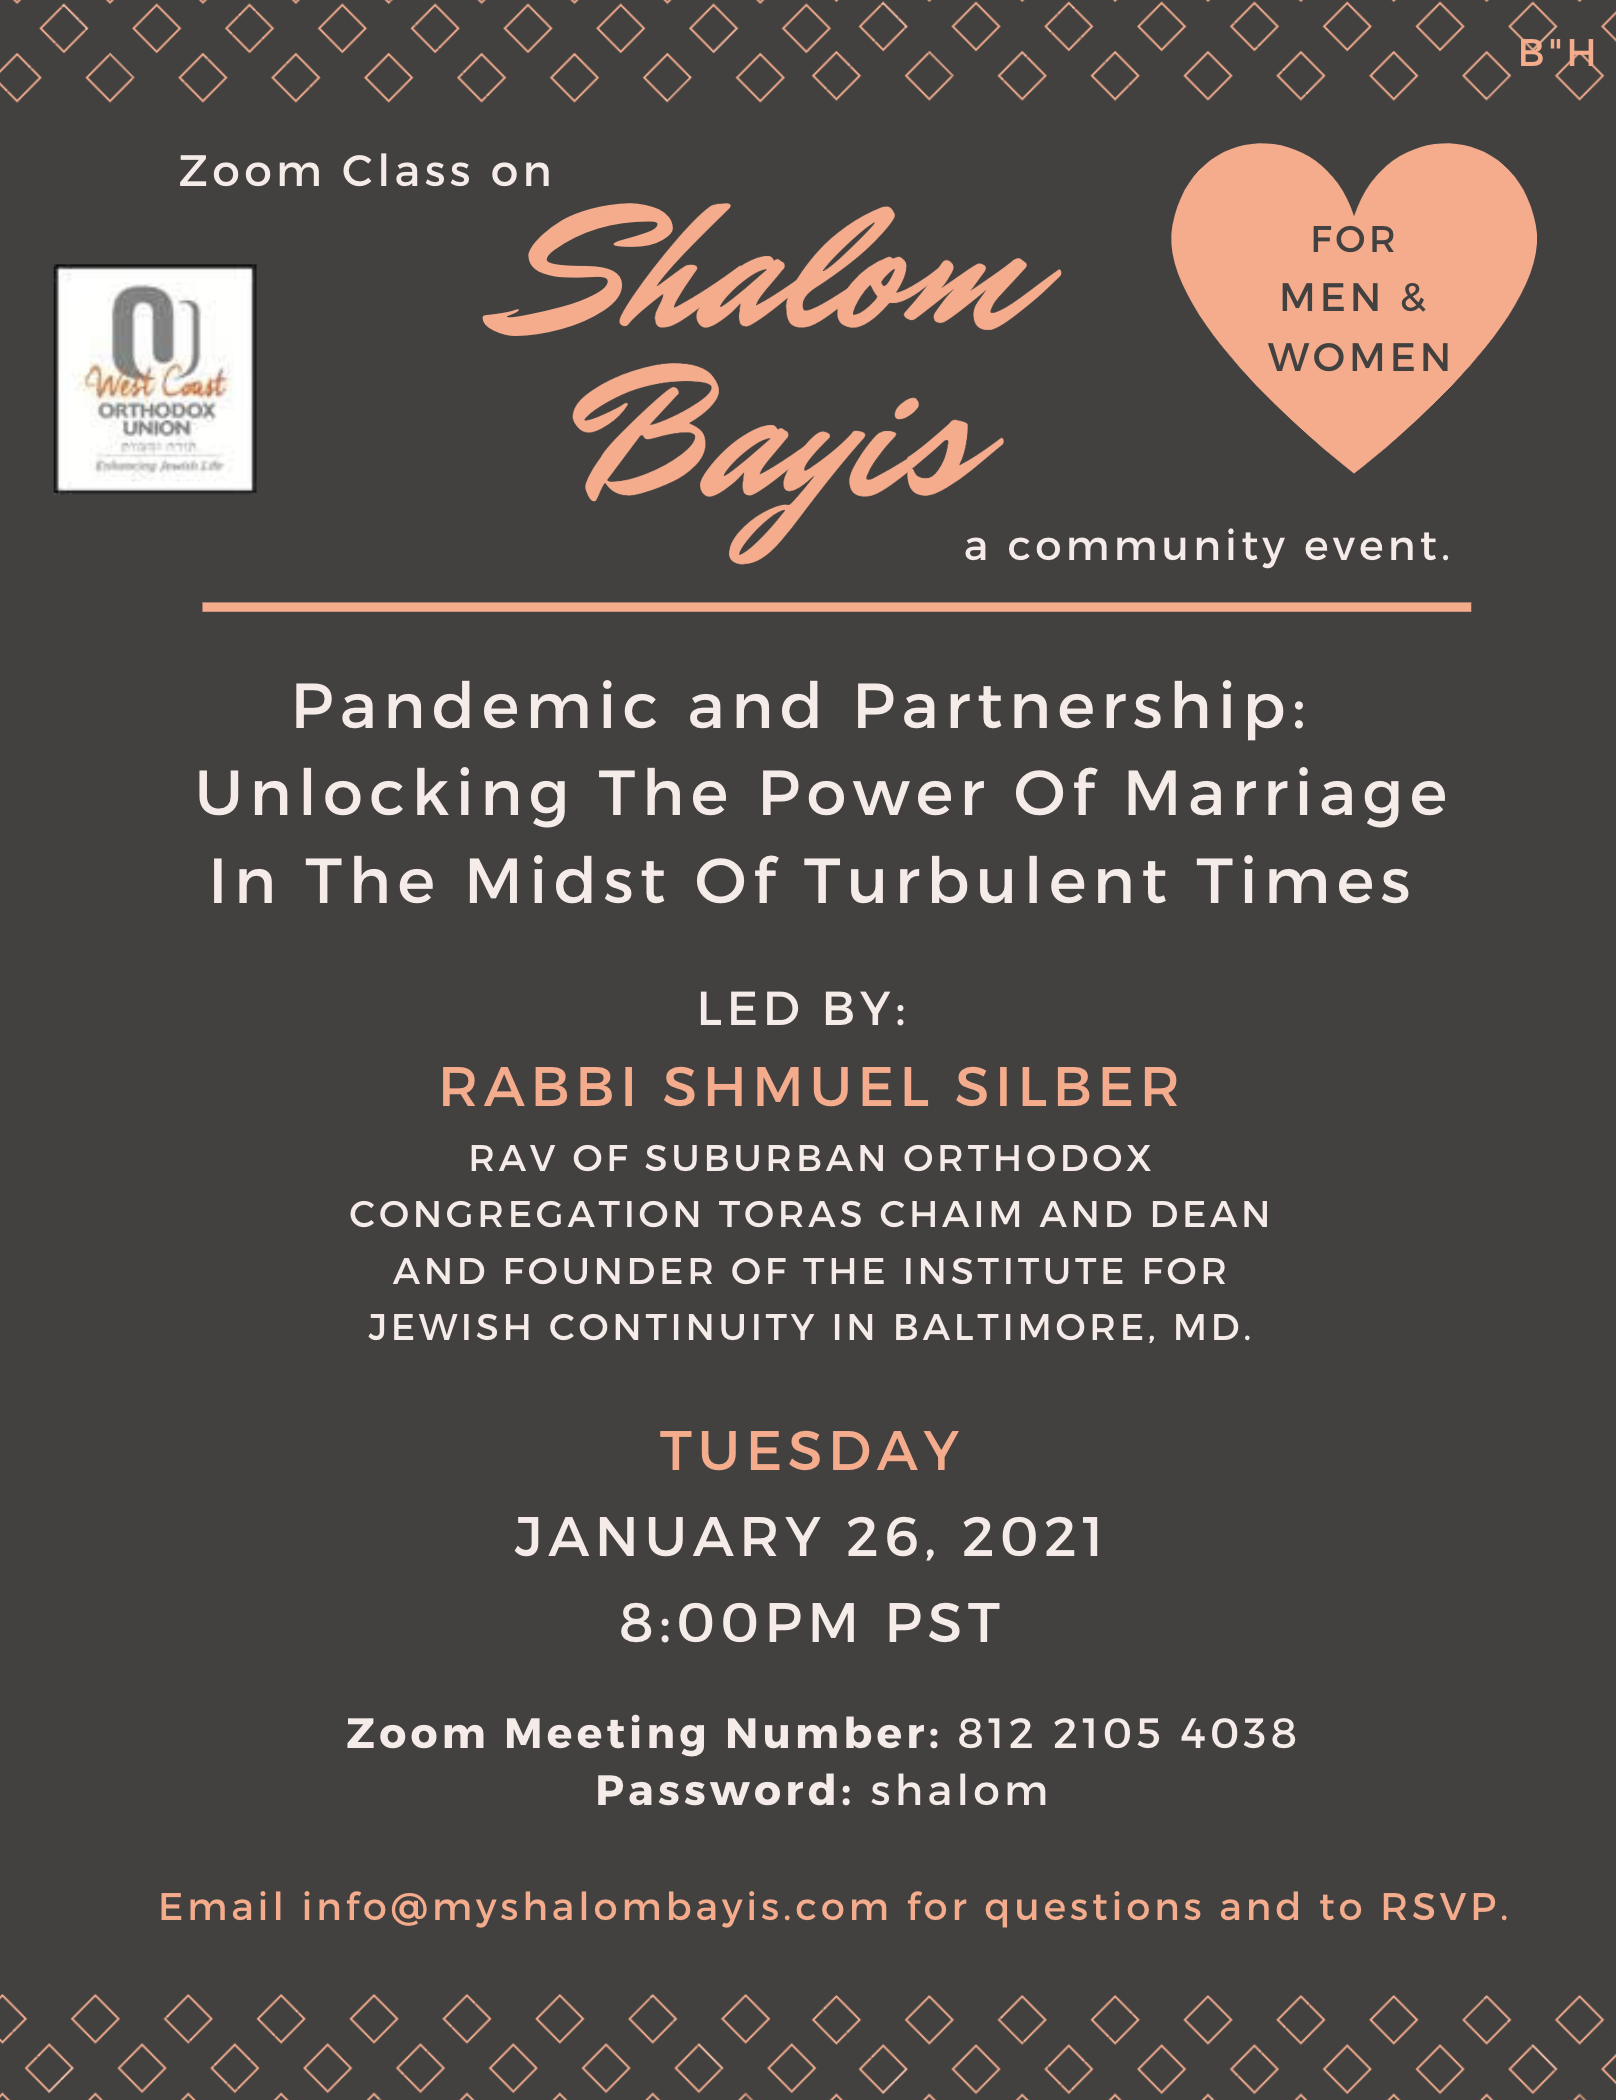
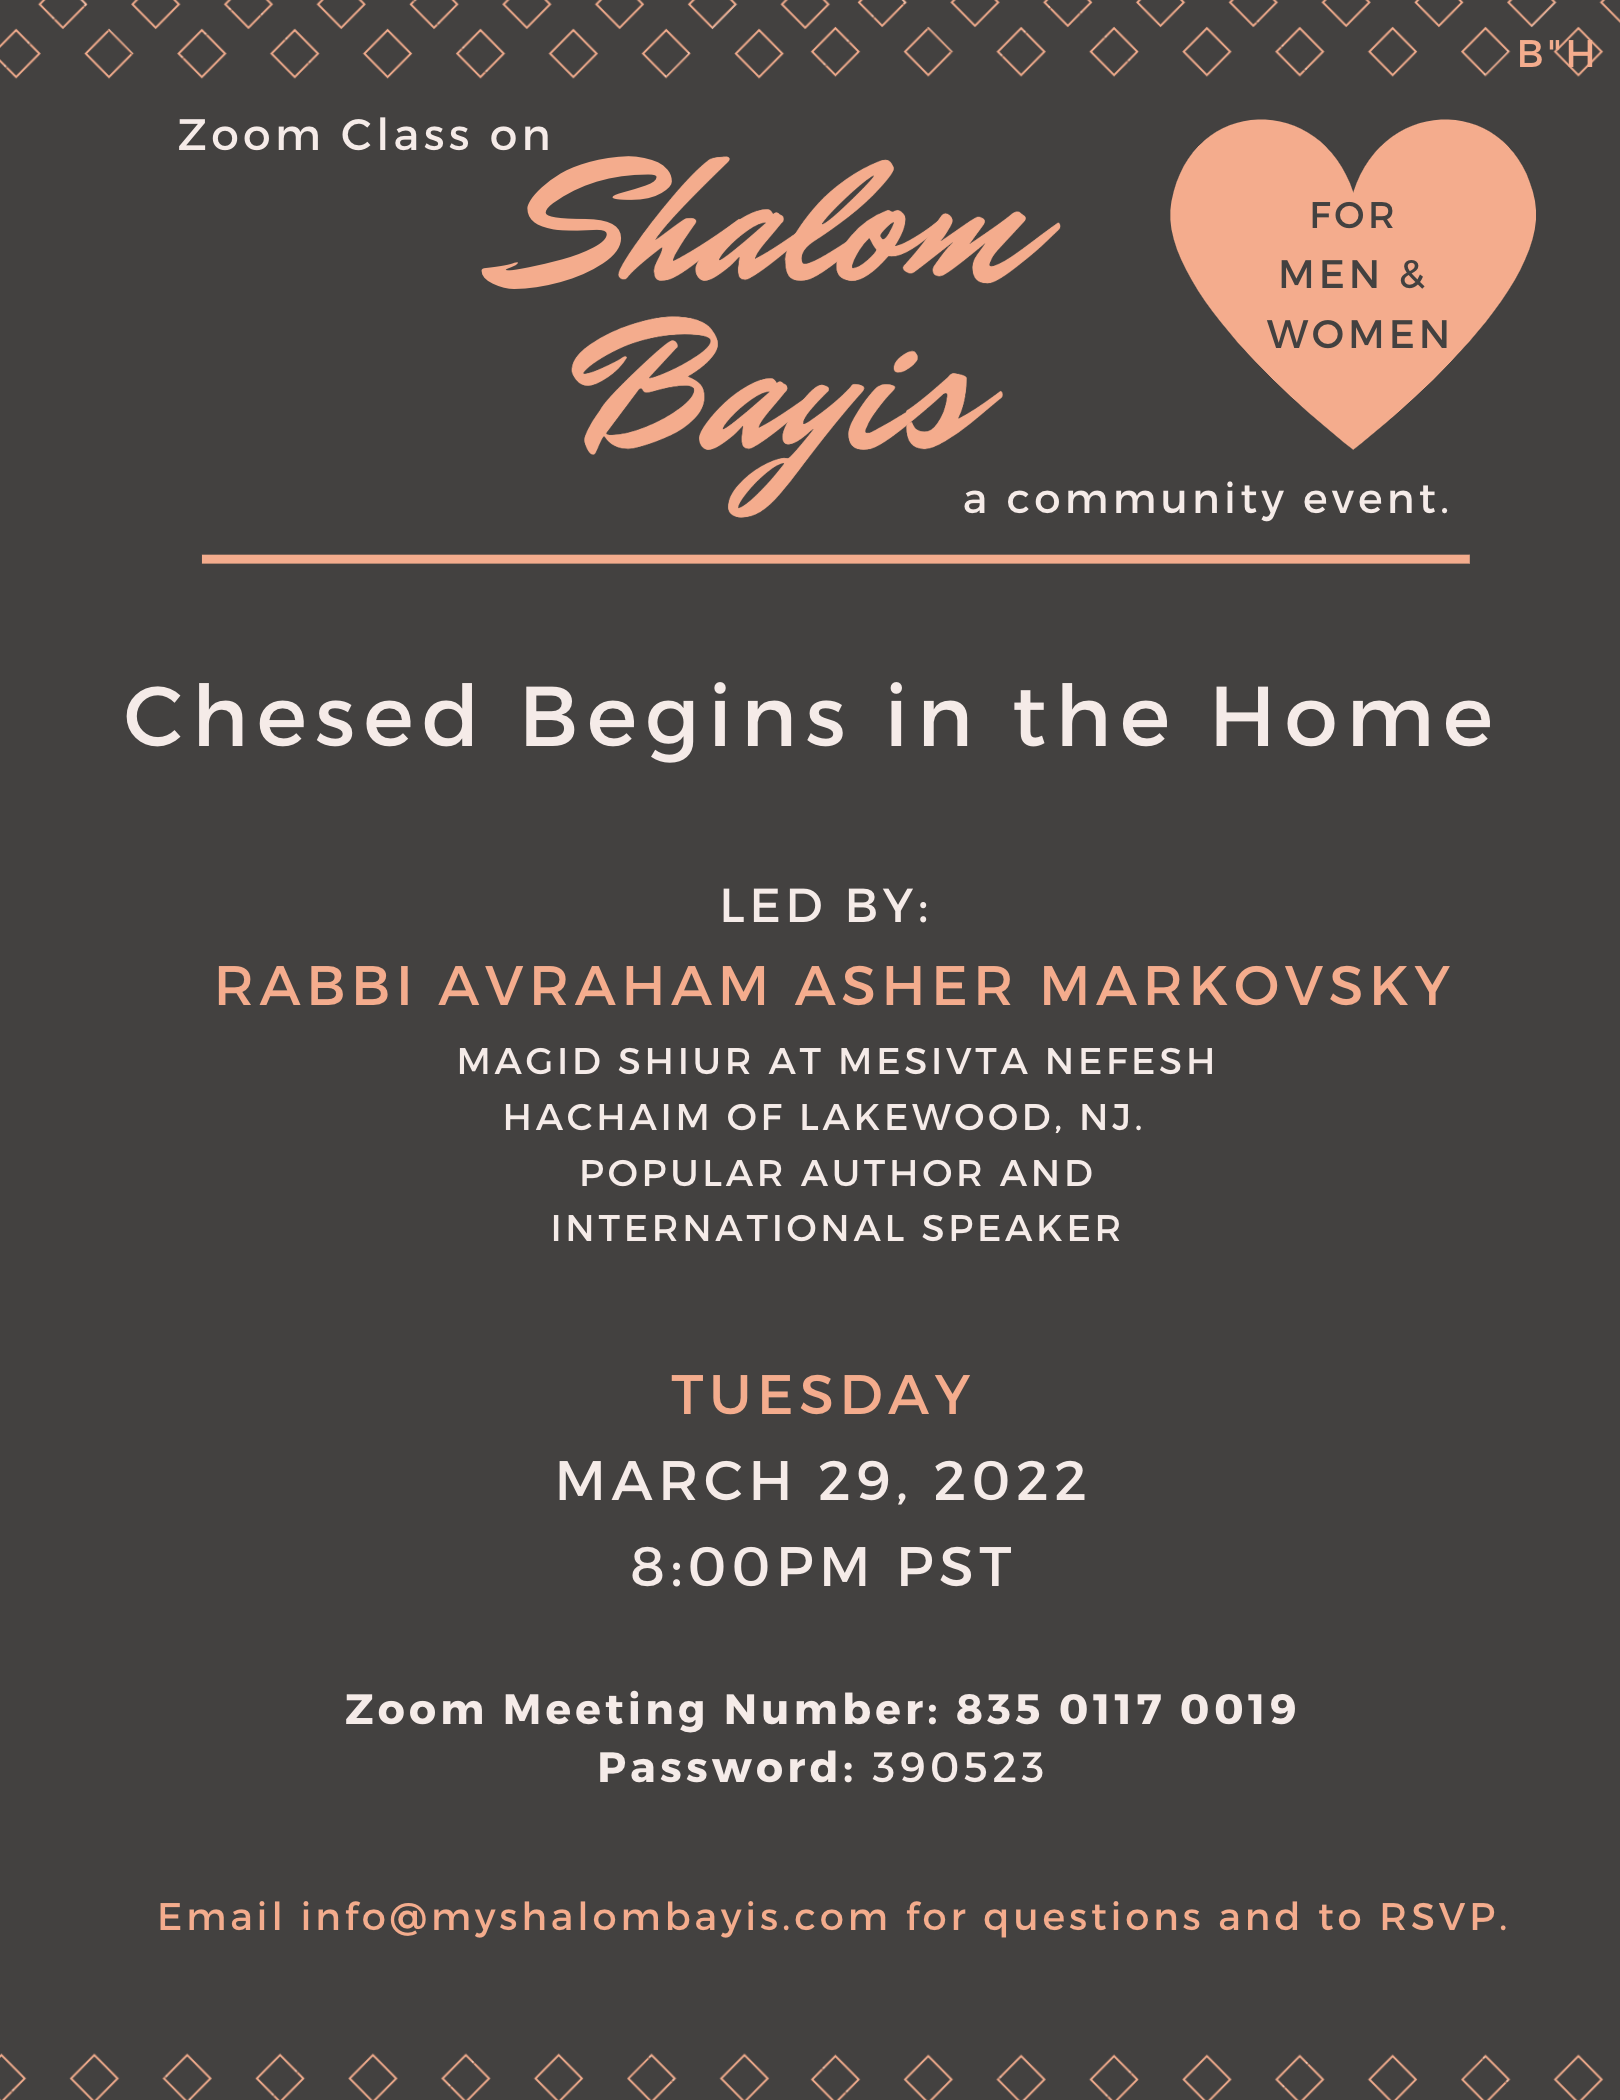
new flyer

Changed region(s): [[0.0, 0.0, 1.0, 0.8667], [0.0, 0.9595, 1.0, 1.0], [0.0928, 0.8976, 0.9282, 0.9286]]

diff --git a/scripts/index.js b/scripts/index.js
@@ -92,7 +92,7 @@ function upcomingFlyer() {
 }
 
 $(document).ready(function() {
-  upcomingEventTBA();
+//   upcomingEventTBA();
   // upcomingEventInfo();
-  // upcomingFlyer();
+  upcomingFlyer();
 });
